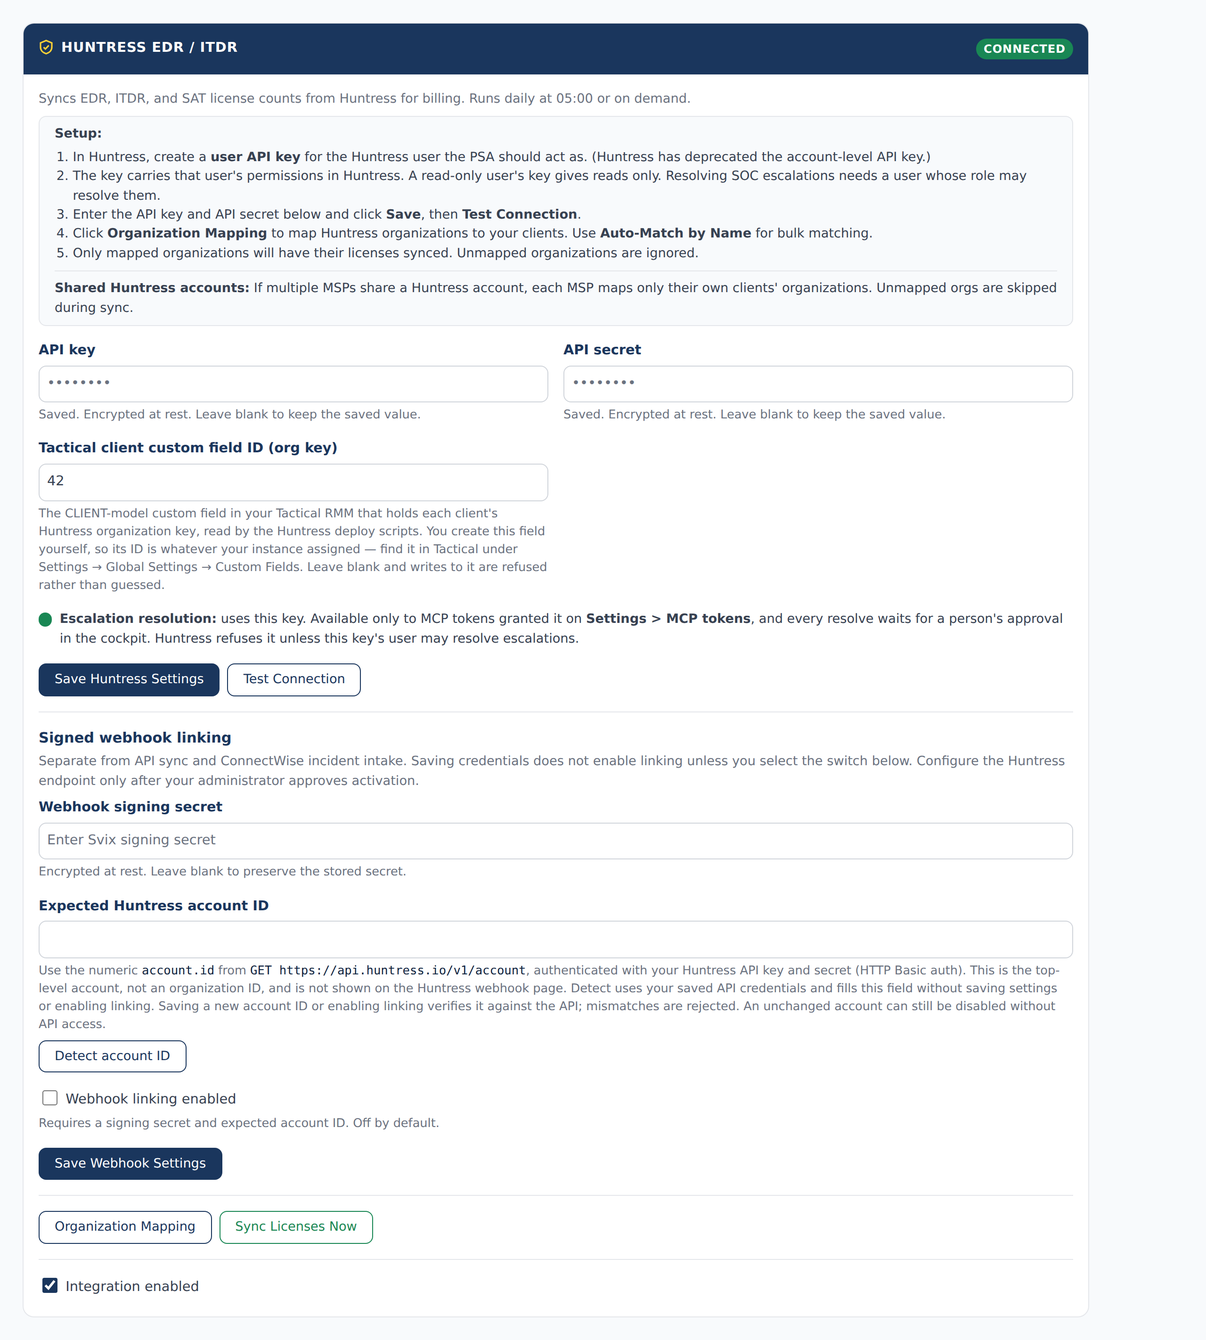
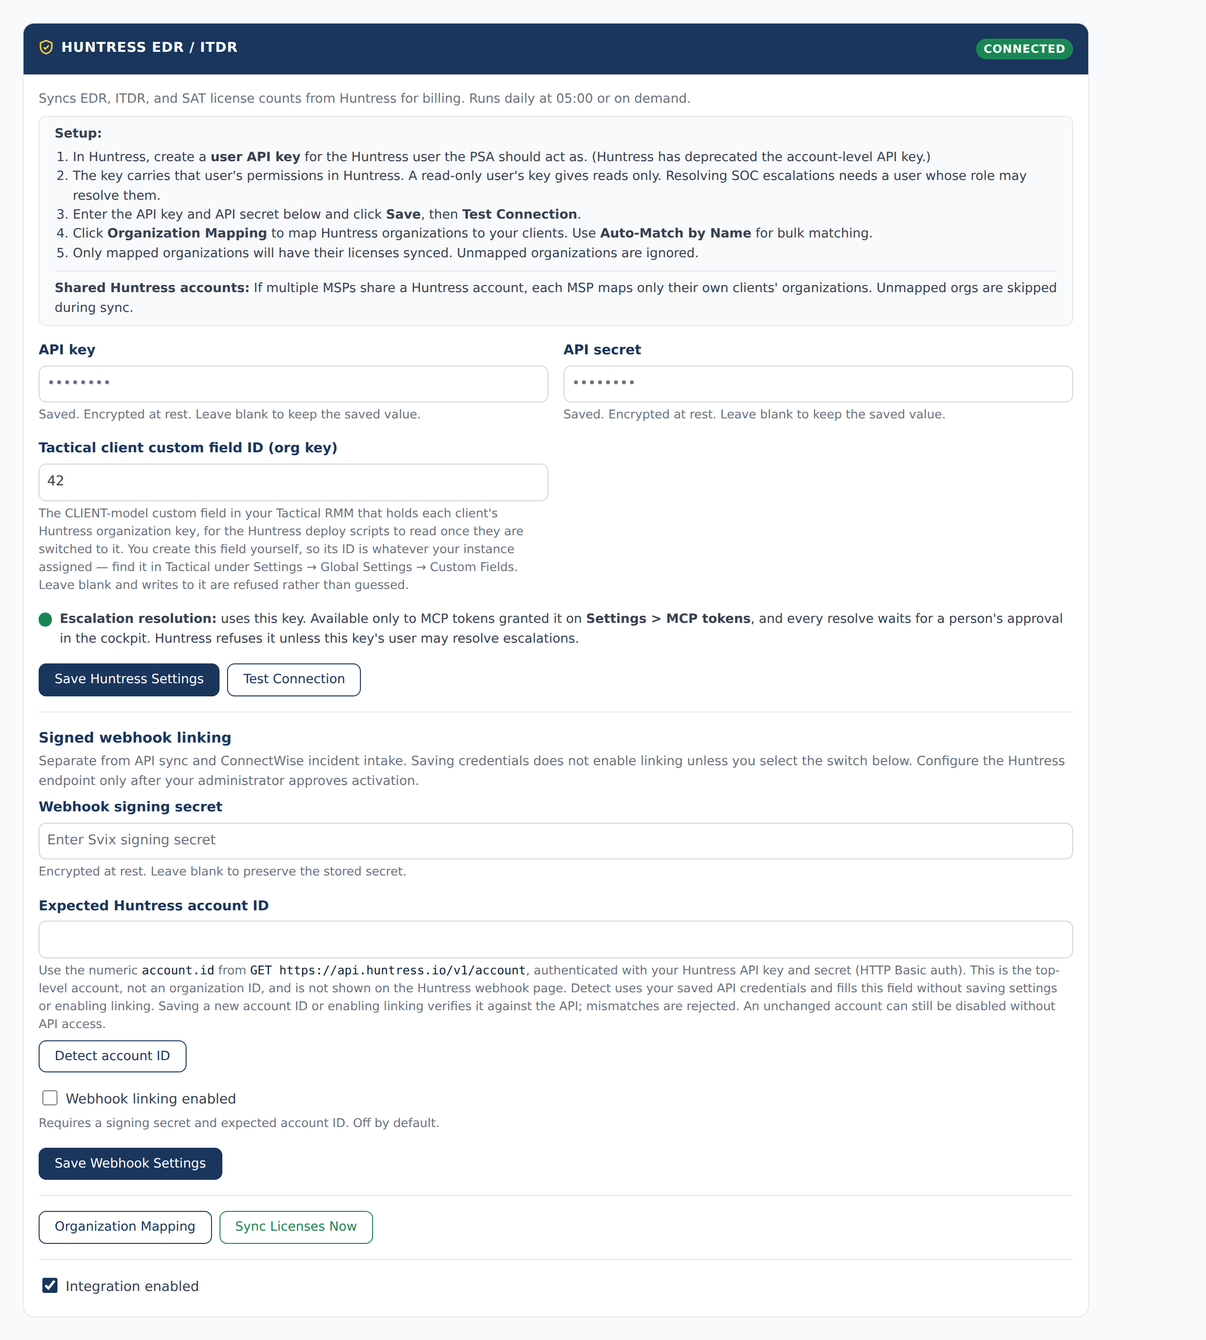
Huntress org key field: admin-only save, true help text
Rework after held review r1, as ruled.

- A non-administrator's settings POST carrying tactical_org_key_field_id
  is refused with 403 before any write, beside the two existing refusals.
  Non-administrators see the field read-only with no name attribute,
  under "An administrator sets this."
- The help text, the MCP refusal string, the allowlist comment and the
  HuntressConfig docblock no longer say the deploy scripts read this
  field today; they say it is for those scripts once switched.
- Tests (red on the parent): a technician posting only the id, or a blank
  id, gets 403 and the stored value is unchanged; an administrator posting
  only the id saves it; the non-admin page shows the read-only note and no
  submittable input; the admin page shows the input and no note.
- Mockups: help text updated in the three states, a new non-admin
  read-only state, all re-rendered at 1280 and 390.

Claim-Seat: forge-vm102-resident

Changed region(s): [[0.0312, 0.3713, 0.4375, 0.4641]]

diff --git a/design/mockups/settings/huntress-orgkey-field-nonadmin.html b/design/mockups/settings/huntress-orgkey-field-nonadmin.html
@@ -1,0 +1,100 @@
+<!doctype html>
+<html lang="en">
+<head>
+<meta charset="utf-8">
+<meta name="viewport" content="width=device-width, initial-scale=1">
+<title>Huntress EDR / ITDR, org key field: non-administrator view (read-only)</title>
+<link rel="stylesheet" href="../_tokens.css">
+<style>
+* { box-sizing: border-box; }
+body { margin: 0; background: var(--psa-colors-canvas); color: var(--psa-colors-ink); font-family: var(--psa-typography-body-font-family); font-size: 0.9rem; line-height: var(--psa-typography-body-line-height); }
+main { padding: var(--psa-spacing-lg); display: grid; gap: var(--psa-spacing-lg); max-width: 1180px; }
+main.two { grid-template-columns: 1fr 1fr; max-width: none; }
+.card { background: var(--psa-colors-surface); border: 1px solid var(--psa-colors-border); border-radius: var(--psa-rounded-md); overflow: hidden; }
+.card-header { background: var(--psa-colors-navy); color: var(--psa-colors-surface); font-family: var(--psa-typography-title-font-family); font-size: var(--psa-typography-title-font-size); font-weight: var(--psa-typography-title-font-weight); letter-spacing: var(--psa-typography-title-letter-spacing); text-transform: uppercase; padding: var(--psa-spacing-md); display: flex; justify-content: space-between; align-items: center; gap: var(--psa-spacing-sm); }
+.card-header svg { vertical-align: -3px; margin-right: var(--psa-spacing-sm); }
+.card-body { padding: var(--psa-spacing-md); }
+.muted { color: var(--psa-colors-muted-ink); }
+.small { font-size: 0.85rem; }
+.badge { border-radius: var(--psa-rounded-pill); padding: 2px var(--psa-spacing-sm); font-family: var(--psa-typography-body-font-family); font-size: 0.75rem; font-weight: 600; text-transform: uppercase; white-space: nowrap; }
+.b-ok { background: var(--psa-colors-success); color: var(--psa-colors-surface); }
+.b-none { background: var(--psa-colors-neutral); color: var(--psa-colors-surface); }
+.setup { border: 1px solid var(--psa-colors-border); border-radius: var(--psa-rounded-sm); background: var(--psa-colors-canvas); padding: var(--psa-spacing-sm) var(--psa-spacing-md); margin-bottom: var(--psa-spacing-md); font-size: 0.85rem; }
+.setup ol { margin: var(--psa-spacing-xs) 0 0; padding-left: 1.2rem; }
+.setup hr { border: 0; border-top: 1px solid var(--psa-colors-border); margin: var(--psa-spacing-sm) 0; }
+.row { display: grid; grid-template-columns: 1fr 1fr; gap: var(--psa-spacing-md); }
+.field { margin-bottom: var(--psa-spacing-md); }
+label { display: block; margin-bottom: var(--psa-spacing-xs); font-weight: var(--psa-typography-label-font-weight); color: var(--psa-colors-navy); }
+input[type=password], input[type=text], input[type=number] { width: 100%; padding: var(--psa-spacing-sm); background: var(--psa-colors-surface); color: var(--psa-colors-ink); border: 1px solid var(--psa-colors-field-border); border-radius: var(--psa-rounded-sm); font: inherit; }
+input[readonly] { background: var(--psa-colors-canvas); color: var(--psa-colors-muted-ink); }
+input::placeholder { color: var(--psa-colors-muted-ink); }
+input[type=checkbox] { accent-color: var(--psa-colors-navy); width: 1rem; height: 1rem; vertical-align: -2px; margin-right: var(--psa-spacing-xs); }
+.hint { font-size: 0.8rem; color: var(--psa-colors-muted-ink); margin-top: var(--psa-spacing-xs); }
+.status { display: flex; gap: var(--psa-spacing-sm); align-items: flex-start; font-size: 0.85rem; margin: 0 0 var(--psa-spacing-md); }
+.status .dot { flex: none; width: 0.9rem; height: 0.9rem; border-radius: 50%; margin-top: 3px; }
+.dot.ok { background: var(--psa-colors-success); }
+.dot.off { background: var(--psa-colors-neutral); }
+.dot.warn { background: var(--psa-colors-warning); }
+.btns { display: flex; flex-wrap: wrap; gap: var(--psa-spacing-sm); }
+button { padding: 6px var(--psa-spacing-md); border: 1px solid var(--psa-colors-navy); border-radius: var(--psa-rounded-sm); background: var(--psa-colors-surface); color: var(--psa-colors-navy); font: inherit; font-size: 0.85rem; }
+button.primary { background: var(--psa-colors-navy); color: var(--psa-colors-surface); }
+button.ok { border-color: var(--psa-colors-success); color: var(--psa-colors-success); }
+button:hover, button:active { background: var(--psa-colors-navy-light); color: var(--psa-colors-surface); }
+button:focus-visible, input:focus-visible { outline: 2px solid var(--psa-colors-navy-light); outline-offset: 2px; }
+.section { border-top: 1px solid var(--psa-colors-border); margin-top: var(--psa-spacing-md); padding-top: var(--psa-spacing-md); }
+h6 { font-family: var(--psa-typography-title-font-family); font-size: 0.95rem; color: var(--psa-colors-navy); margin: 0 0 var(--psa-spacing-xs); }
+p { margin: 0 0 var(--psa-spacing-sm); }
+code { font-size: 0.8rem; color: var(--psa-colors-navy-deep); }
+.notice { border: 1px solid var(--psa-colors-border); border-radius: var(--psa-rounded-sm); padding: var(--psa-spacing-sm) var(--psa-spacing-md); margin-bottom: var(--psa-spacing-md); font-size: 0.85rem; background: var(--psa-colors-surface); }
+.danger { color: var(--psa-colors-danger); font-size: 0.8rem; margin-top: var(--psa-spacing-xs); }
+@media (max-width: 600px) {
+  main, main.two { padding: var(--psa-spacing-sm); grid-template-columns: 1fr; gap: var(--psa-spacing-md); }
+  .row { grid-template-columns: 1fr; gap: 0; }
+  .card-header { flex-wrap: wrap; }
+}
+</style>
+</head>
+<body>
+<main>
+
+<article class="card">
+<header class="card-header"><span><svg width="16" height="16" viewBox="0 0 16 16" aria-hidden="true"><path d="M8 1 L14 3.5 V8 C14 11.5 11.4 14 8 15 C4.6 14 2 11.5 2 8 V3.5 Z" fill="none" stroke="var(--psa-colors-signal-gold)" stroke-width="1.6"/><path d="M5.3 8.2 L7.2 10 L10.8 6.2" fill="none" stroke="var(--psa-colors-signal-gold)" stroke-width="1.6"/></svg>Huntress EDR / ITDR</span><span class="badge b-ok">Connected</span></header>
+<div class="card-body">
+<p class="muted small">Syncs EDR, ITDR, and SAT license counts from Huntress for billing. Runs daily at 05:00 or on demand.</p>
+
+<div class="setup">
+  <strong>Setup:</strong>
+  <ol>
+    <li>In Huntress, create a <strong>user API key</strong> for the Huntress user the PSA should act as. (Huntress has deprecated the account-level API key.)</li>
+    <li>The key carries that user's permissions in Huntress. A read-only user's key gives reads only. Resolving SOC escalations needs a user whose role may resolve them.</li>
+    <li>Enter the API key and API secret below and click <strong>Save</strong>, then <strong>Test Connection</strong>.</li>
+    <li>Click <strong>Organization Mapping</strong> to map Huntress organizations to your clients. Use <strong>Auto-Match by Name</strong> for bulk matching.</li>
+    <li>Only mapped organizations will have their licenses synced. Unmapped organizations are ignored.</li>
+  </ol>
+  <hr>
+  <strong>Shared Huntress accounts:</strong> If multiple MSPs share a Huntress account, each MSP maps only their own clients' organizations. Unmapped orgs are skipped during sync.
+</div>
+
+
+<p class="muted small">An administrator enters this key.</p>
+<div class="row">
+  <div class="field"><label for="ok">Tactical client custom field ID (org key)</label><input type="number" id="ok" value="42" readonly aria-describedby="okadm">
+    <div class="hint" id="okadm">An administrator sets this.</div>
+    <div class="hint">The CLIENT-model custom field in your Tactical RMM that holds each client's Huntress organization key, for the Huntress deploy scripts to read once they are switched to it. You create this field yourself, so its ID is whatever your instance assigned &mdash; find it in Tactical under Settings &rarr; Global Settings &rarr; Custom Fields. Leave blank and writes to it are refused rather than guessed.</div></div>
+  <div></div>
+</div>
+<p class="status" role="status"><span class="dot ok" aria-hidden="true"></span><span><strong>Escalation resolution:</strong> uses this key. Available only to MCP tokens granted it on <strong>Settings &gt; MCP tokens</strong>, and every resolve waits for a person's approval in the cockpit. Huntress refuses it unless this key's user may resolve escalations.</span></p>
+
+<div class="btns"><button class="primary" type="button">Save Huntress Settings</button><button type="button">Test Connection</button></div>
+
+
+
+
+<div class="section btns"><button type="button">Organization Mapping</button><button class="ok" type="button">Sync Licenses Now</button></div>
+<div class="section"><label style="font-weight:400;color:var(--psa-colors-ink)"><input type="checkbox" checked> Integration enabled</label></div>
+
+</div></article>
+
+</main>
+</body>
+</html>

diff --git a/design/mockups/settings/huntress-orgkey-field-unusable.html b/design/mockups/settings/huntress-orgkey-field-unusable.html
@@ -84,7 +84,7 @@ code { font-size: 0.8rem; color: var(--psa-colors-navy-deep); }
 <div class="row">
   <div class="field"><label for="ok">Tactical client custom field ID (org key)</label><input type="number" min="1" step="1" id="ok" value="">
     <div class="danger" role="alert">Stored value <code>0042x</code> is not a usable field ID. Leaving this field blank when saving clears it; enter a valid ID to replace it.</div>
-    <div class="hint">The CLIENT-model custom field in your Tactical RMM that holds each client's Huntress organization key, read by the Huntress deploy scripts. You create this field yourself, so its ID is whatever your instance assigned &mdash; find it in Tactical under Settings &rarr; Global Settings &rarr; Custom Fields. Leave blank and writes to it are refused rather than guessed.</div></div>
+    <div class="hint">The CLIENT-model custom field in your Tactical RMM that holds each client's Huntress organization key, for the Huntress deploy scripts to read once they are switched to it. You create this field yourself, so its ID is whatever your instance assigned &mdash; find it in Tactical under Settings &rarr; Global Settings &rarr; Custom Fields. Leave blank and writes to it are refused rather than guessed.</div></div>
   <div></div>
 </div>
 <p class="status" role="status"><span class="dot ok" aria-hidden="true"></span><span><strong>Escalation resolution:</strong> uses this key. Available only to MCP tokens granted it on <strong>Settings &gt; MCP tokens</strong>, and every resolve waits for a person's approval in the cockpit. Huntress refuses it unless this key's user may resolve escalations.</span></p>

diff --git a/design/mockups/settings/huntress-orgkey-field-saved.html b/design/mockups/settings/huntress-orgkey-field-saved.html
@@ -83,7 +83,7 @@ code { font-size: 0.8rem; color: var(--psa-colors-navy-deep); }
 </div>
 <div class="row">
   <div class="field"><label for="ok">Tactical client custom field ID (org key)</label><input type="number" min="1" step="1" id="ok" value="42">
-    <div class="hint">The CLIENT-model custom field in your Tactical RMM that holds each client's Huntress organization key, read by the Huntress deploy scripts. You create this field yourself, so its ID is whatever your instance assigned &mdash; find it in Tactical under Settings &rarr; Global Settings &rarr; Custom Fields. Leave blank and writes to it are refused rather than guessed.</div></div>
+    <div class="hint">The CLIENT-model custom field in your Tactical RMM that holds each client's Huntress organization key, for the Huntress deploy scripts to read once they are switched to it. You create this field yourself, so its ID is whatever your instance assigned &mdash; find it in Tactical under Settings &rarr; Global Settings &rarr; Custom Fields. Leave blank and writes to it are refused rather than guessed.</div></div>
   <div></div>
 </div>
 <p class="status" role="status"><span class="dot ok" aria-hidden="true"></span><span><strong>Escalation resolution:</strong> uses this key. Available only to MCP tokens granted it on <strong>Settings &gt; MCP tokens</strong>, and every resolve waits for a person's approval in the cockpit. Huntress refuses it unless this key's user may resolve escalations.</span></p>

diff --git a/design/mockups/settings/huntress-orgkey-field-empty.html b/design/mockups/settings/huntress-orgkey-field-empty.html
@@ -83,7 +83,7 @@ code { font-size: 0.8rem; color: var(--psa-colors-navy-deep); }
 </div>
 <div class="row">
   <div class="field"><label for="ok">Tactical client custom field ID (org key)</label><input type="number" min="1" step="1" id="ok" value="">
-    <div class="hint">The CLIENT-model custom field in your Tactical RMM that holds each client's Huntress organization key, read by the Huntress deploy scripts. You create this field yourself, so its ID is whatever your instance assigned &mdash; find it in Tactical under Settings &rarr; Global Settings &rarr; Custom Fields. Leave blank and writes to it are refused rather than guessed.</div></div>
+    <div class="hint">The CLIENT-model custom field in your Tactical RMM that holds each client's Huntress organization key, for the Huntress deploy scripts to read once they are switched to it. You create this field yourself, so its ID is whatever your instance assigned &mdash; find it in Tactical under Settings &rarr; Global Settings &rarr; Custom Fields. Leave blank and writes to it are refused rather than guessed.</div></div>
   <div></div>
 </div>
 <p class="status" role="status"><span class="dot ok" aria-hidden="true"></span><span><strong>Escalation resolution:</strong> uses this key. Available only to MCP tokens granted it on <strong>Settings &gt; MCP tokens</strong>, and every resolve waits for a person's approval in the cockpit. Huntress refuses it unless this key's user may resolve escalations.</span></p>

diff --git a/resources/views/settings/integrations.blade.php b/resources/views/settings/integrations.blade.php
@@ -2284,11 +2284,22 @@
                     <div class="row">
                         <div class="col-md-6 mb-3">
                             <label for="huntress_tactical_org_key_field_id" class="form-label">Tactical client custom field ID (org key)</label>
-                            <input type="number" min="1" step="1"
-                                   class="form-control @error('tactical_org_key_field_id') is-invalid @enderror"
-                                   id="huntress_tactical_org_key_field_id"
-                                   name="tactical_org_key_field_id"
-                                   value="{{ old('tactical_org_key_field_id', $huntressOrgKeyFieldId ?? '') }}">
+                            @if(auth()->user()?->isAdmin())
+                                <input type="number" min="1" step="1"
+                                       class="form-control @error('tactical_org_key_field_id') is-invalid @enderror"
+                                       id="huntress_tactical_org_key_field_id"
+                                       name="tactical_org_key_field_id"
+                                       value="{{ old('tactical_org_key_field_id', $huntressOrgKeyFieldId ?? '') }}">
+                            @else
+                                {{-- Read-only and unnamed for non-administrators: the field id chooses
+                                     which Tactical field huntress_org_key writes, so only an
+                                     administrator may change it (updateHuntress refuses with 403). --}}
+                                <input type="number" class="form-control" readonly
+                                       id="huntress_tactical_org_key_field_id"
+                                       aria-describedby="huntress-org-key-admin-only"
+                                       value="{{ $huntressOrgKeyFieldId ?? '' }}">
+                                <div class="form-text" id="huntress-org-key-admin-only">An administrator sets this.</div>
+                            @endif
                             @error('tactical_org_key_field_id')
                                 <div class="invalid-feedback">{{ $message }}</div>
                             @enderror
@@ -2300,8 +2311,9 @@
                             @endif
                             <div class="form-text">
                                 The CLIENT-model custom field in your Tactical RMM that holds each client's
-                                Huntress organization key, read by the Huntress deploy scripts. You create this
-                                field yourself, so its ID is whatever your instance assigned &mdash; find it in
+                                Huntress organization key, for the Huntress deploy scripts to read once they are
+                                switched to it. You create this field yourself, so its ID is whatever your
+                                instance assigned &mdash; find it in
                                 Tactical under Settings &rarr; Global Settings &rarr; Custom Fields. Leave blank
                                 and writes to it are refused rather than guessed.
                             </div>

diff --git a/tests/Feature/Settings/HuntressOrgKeyFieldSettingsTest.php b/tests/Feature/Settings/HuntressOrgKeyFieldSettingsTest.php
@@ -136,6 +136,63 @@ class HuntressOrgKeyFieldSettingsTest extends TestCase
         $this->assertNull($this->raw());
     }
 
+    public function test_a_non_admin_submit_carrying_only_the_field_id_is_refused_and_saves_nothing(): void
+    {
+        Setting::setValue(HuntressConfig::TACTICAL_CLIENT_ORG_KEY_FIELD_SETTING, '42');
+        $tech = User::factory()->create(['role' => UserRole::Tech, 'is_active' => true]);
+
+        $this->actingAs($tech)
+            ->post(route('settings.integrations.huntress.update'), [
+                'tactical_org_key_field_id' => '51',
+            ])
+            ->assertForbidden();
+
+        $this->assertSame('42', $this->raw());
+    }
+
+    public function test_a_non_admin_blank_field_id_submit_is_refused_and_clears_nothing(): void
+    {
+        Setting::setValue(HuntressConfig::TACTICAL_CLIENT_ORG_KEY_FIELD_SETTING, '42');
+        $tech = User::factory()->create(['role' => UserRole::Tech, 'is_active' => true]);
+
+        $this->actingAs($tech)
+            ->post(route('settings.integrations.huntress.update'), [
+                'tactical_org_key_field_id' => '',
+            ])
+            ->assertForbidden();
+
+        $this->assertSame('42', $this->raw());
+    }
+
+    public function test_an_admin_submit_carrying_only_the_field_id_saves_it(): void
+    {
+        $this->save(['tactical_org_key_field_id' => '51'])
+            ->assertRedirect(route('settings.integrations'))
+            ->assertSessionHasNoErrors();
+
+        $this->assertSame('51', $this->raw());
+    }
+
+    public function test_a_non_admin_sees_the_field_id_read_only_with_no_submittable_input(): void
+    {
+        Setting::setValue(HuntressConfig::TACTICAL_CLIENT_ORG_KEY_FIELD_SETTING, '42');
+        $tech = User::factory()->create(['role' => UserRole::Tech, 'is_active' => true]);
+
+        $this->actingAs($tech)->get(route('settings.integrations'))
+            ->assertOk()
+            ->assertSee('id="huntress-org-key-admin-only"', false)
+            ->assertSee('An administrator sets this.')
+            ->assertDontSee('name="tactical_org_key_field_id"', false);
+    }
+
+    public function test_an_admin_sees_the_editable_input_and_not_the_admin_only_note(): void
+    {
+        $this->actingAs($this->admin())->get(route('settings.integrations'))
+            ->assertOk()
+            ->assertSee('name="tactical_org_key_field_id"', false)
+            ->assertDontSee('id="huntress-org-key-admin-only"', false);
+    }
+
     public function test_an_edge_whitespace_value_reads_back_trimmed(): void
     {
         Setting::setValue(HuntressConfig::TACTICAL_CLIENT_ORG_KEY_FIELD_SETTING, ' 51 ');

diff --git a/app/Services/Mcp/StaffTacticalAdminToolExecutor.php b/app/Services/Mcp/StaffTacticalAdminToolExecutor.php
@@ -181,8 +181,9 @@ class StaffTacticalAdminToolExecutor
      */
     private const CLIENT_CUSTOM_FIELD_ALLOWLIST = [
         'controld_org_id' => ControlDConfig::TACTICAL_CLIENT_ORG_FIELD_SETTING,
-        // Read by the Huntress deploy scripts as the installer's org key, so a
-        // client rename cannot make Huntress create a duplicate organization.
+        // For the Huntress deploy scripts to pass to the installer (they derive it
+        // from the client name until switched), so a client rename cannot make
+        // Huntress create a duplicate organization.
         'huntress_org_key' => HuntressConfig::TACTICAL_CLIENT_ORG_KEY_FIELD_SETTING,
     ];
 
@@ -3636,7 +3637,7 @@ class StaffTacticalAdminToolExecutor
                 : "The Control D integration is disabled in PSA (setting 'controld_enabled'), and '{$fieldKey}' is its deploy trigger; no upstream call was made.",
             'huntress_org_key' => HuntressConfig::isEnabled()
                 ? null
-                : "The Huntress integration is disabled in PSA (setting 'huntress_enabled'), and '{$fieldKey}' is the org key its deploy scripts install with; no upstream call was made.",
+                : "The Huntress integration is disabled in PSA (setting 'huntress_enabled'), and '{$fieldKey}' is the org key for its deploy scripts; no upstream call was made.",
             default => "No integration master switch is wired up for '{$fieldKey}'; no upstream call was made.",
         };
     }

diff --git a/app/Http/Controllers/Web/IntegrationsController.php b/app/Http/Controllers/Web/IntegrationsController.php
@@ -2105,7 +2105,15 @@ class IntegrationsController extends Controller
             abort(403, 'Administrator access required.');
         }
 
-        // Saved only after both 403 refusals above, so a refused submit writes
+        if ($request->has('tactical_org_key_field_id') && ! $request->user()?->isAdmin()) {
+            // The field id chooses which Tactical field huntress_org_key writes, so
+            // only an administrator may set or clear it. The input is rendered
+            // read-only and unnamed to non-admins; a non-admin submit carrying it
+            // is refused before anything saves, the same rule as the key pair.
+            abort(403, 'Administrator access required.');
+        }
+
+        // Saved only after the 403 refusals above, so a refused submit writes
         // nothing. Not a secret, so unlike the key pair a BLANK submit CLEARS it
         // (re-arming the fail-closed refusal), while an OMITTED key leaves it alone,
         // so a credentials-only POST cannot erase it. Stored canonically, so what is

diff --git a/app/Support/HuntressConfig.php b/app/Support/HuntressConfig.php
@@ -18,8 +18,8 @@ class HuntressConfig
 
     /**
      * Setting holding the Tactical RMM CLIENT-scoped custom field id that carries a
-     * client's Huntress organization key, which the Huntress deploy scripts pass to
-     * the installer.
+     * client's Huntress organization key, for the Huntress deploy scripts to pass to
+     * the installer (they derive it from the client name until switched).
      *
      * A setting rather than a constant for the same reason as
      * ControlDConfig::TACTICAL_CLIENT_ORG_FIELD_SETTING: the operator creates this
